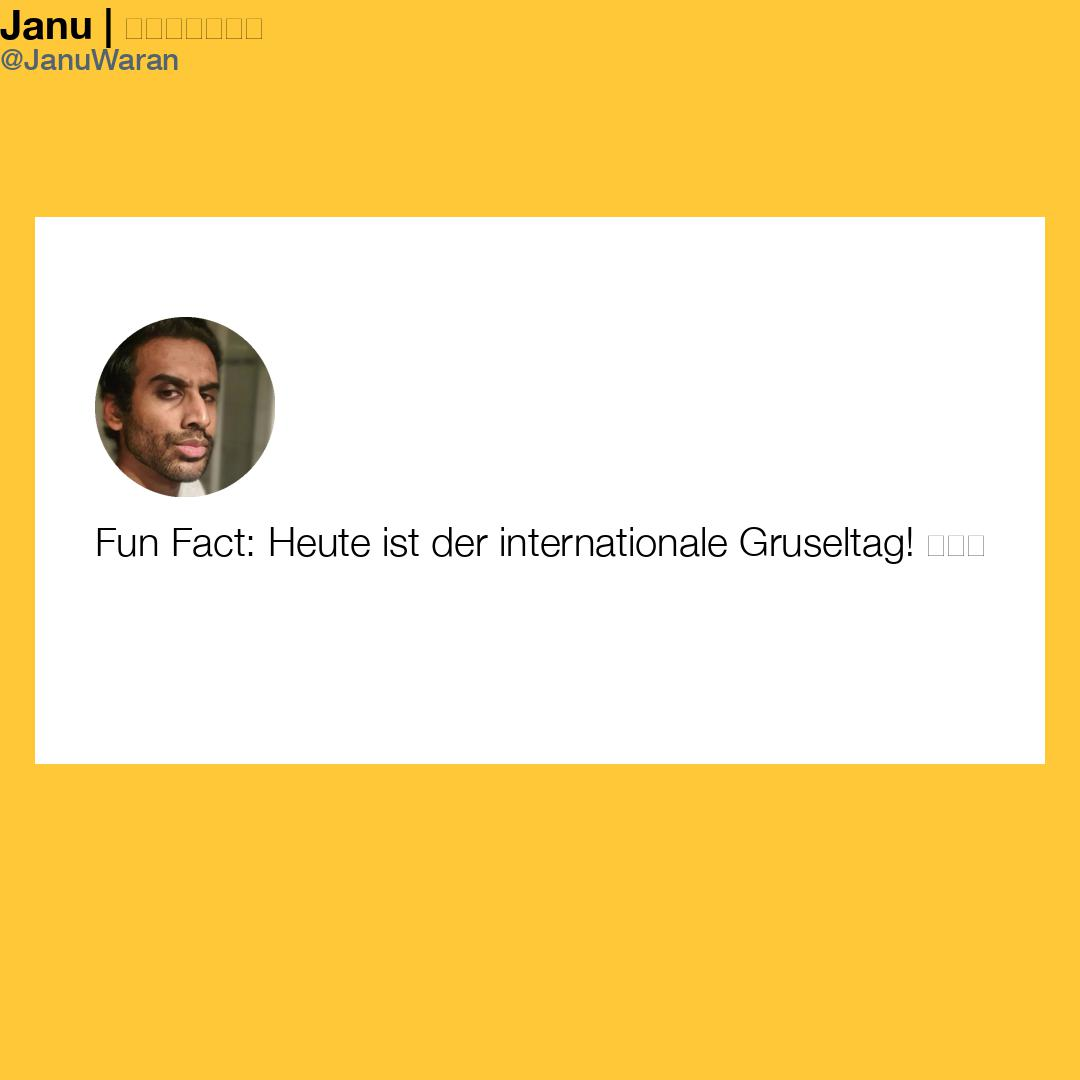
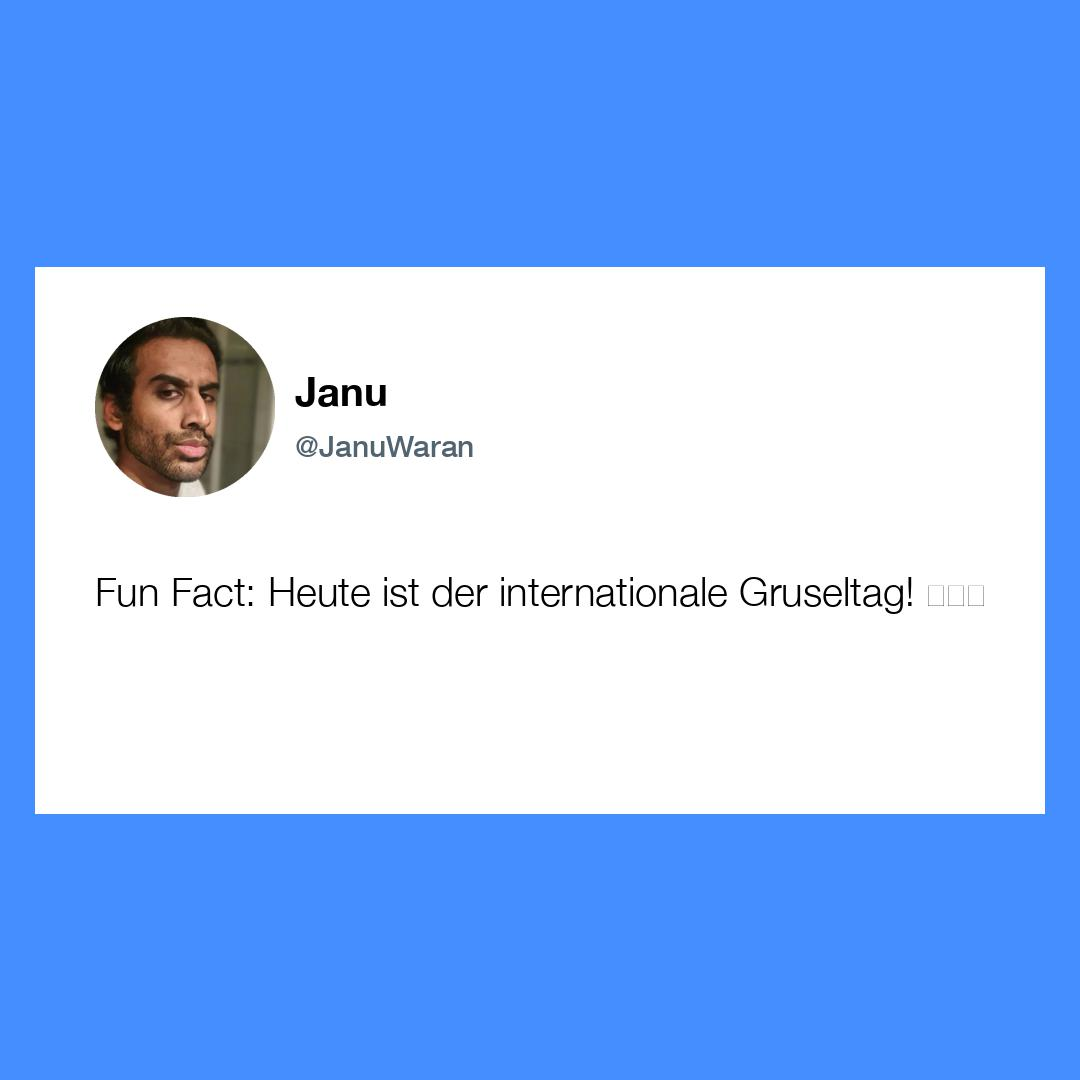
FINISHED (alpha version)

diff --git a/main.py b/main.py
@@ -138,10 +138,13 @@ def export_janus_tweets(x, y):
     return the_counter
 
 
-def tweets_to_images(file, username):
+def tweets_to_images(file, handle, name): 
+    # let name empty for original name
     tweets = pd.read_csv(file)
-    profile_image = get_profile_image(username)
-    name = get_name(username)
+    profile_image = get_profile_image(handle)
+    if name == "":
+        name = get_name(handle)
+    color2 = color_codes[random.randint(0, len(color_codes) - 1)]
     for ind in tweets.index:
         tweet = tweets['tweet'][ind]
         favs = tweets['favs'][ind]
@@ -149,7 +152,10 @@ def tweets_to_images(file, username):
         # tweet_timestamp = tweets['date'][ind]
         tweet_id = tweets['id'][ind]
         color = color_codes[random.randint(0, len(color_codes) - 1)]
-        tweet_to_image(name, username, tweet, favs, retweets, profile_image, tweet_id, color[0], color[1], color[2])
+        while color2 == color:
+          color = color_codes[random.randint(0, len(color_codes) - 1)]
+        color2 = color
+        tweet_to_image(name, handle, tweet, favs, retweets, profile_image, tweet_id, color[0], color[1], color[2])
 
 
 def tweet_to_image(name, username, tweet, favs, retweets, profile_image, tweet_id, r, g, b):
@@ -169,19 +175,47 @@ def tweet_to_image(name, username, tweet, favs, retweets, profile_image, tweet_i
     username_font = ImageFont.truetype("fonts/HelveticaNeueMedium.ttf", 30)
     tweet_size = get_text_dimensions(tweet, tw_font)
     print(tweet_size)
-    tweet_w = (width-tweet_size[0]) // 2
-    tweet_h = (height-tweet_size[1]) // 2
+    tweet_w = (width-900) // 2
+    tweet_h = (height-tweet_size[1]) // 2 + 50
     if tweet_size[0] <= 900:
-      draw.rectangle(((tweet_w-60, tweet_h-300),(tweet_w+tweet_size[0]+60, tweet_h+tweet_size[1]+200)), fill="white")
+      tweet_w = (width-tweet_size[0]) // 2
+      tweet_h = (height-tweet_size[1]) // 2 + 50
+      if tweet_size[0] <= 700:
+        tweet_w = (width-700) // 2
+        tweet_h = (height-tweet_size[1]) // 2 + 50
+        draw.rectangle(((tweet_w-60, tweet_h-300),(tweet_w+700+60, tweet_h+tweet_size[1]+200)), fill="white")
+      else:
+        draw.rectangle(((tweet_w-60, tweet_h-300),(tweet_w+tweet_size[0]+60, tweet_h+tweet_size[1]+200)), fill="white")
       draw.text((tweet_w, tweet_h),tweet,(0,0,0), font=tw_font)
-    img.paste(profile_image, (tweet_w, tweet_h-200), profile_image)
-    # draw.rectangle(((0, 00), (100, 100)))
-    draw.text((0, 0),name,(0,0,0), font=name_font)
-    draw.text((0, 40),"@"+username,(83,100,113),font=username_font)
-
+    else:
+      tweet_words = tweet.split(" ")
+      current_line = ""
+      tweet_lines = []
+      for word in tweet_words:
+        if current_line != "":
+          filler = " "
+        else: 
+          filler = ""
+        if get_text_dimensions(current_line+filler+word, tw_font)[0] > 900:
+          tweet_lines.append(current_line)
+          current_line = word
+        else:
+          current_line += filler + word
+      if (len(current_line) > 0):
+        tweet_lines.append(current_line)
+      tweet_w = (width-900) // 2
+      tweet_h = (height-(tweet_size[1]+15)*len(tweet_lines)) // 2 + 50
+      draw.rectangle(((tweet_w-60, tweet_h-300),(tweet_w+900+60, tweet_h+(tweet_size[1]+15)*len(tweet_lines)+200)), fill="white")
+      line_no = 0
+      for tweet_line in tweet_lines:
+        draw.text((tweet_w, tweet_h+(tweet_size[1]+15)*line_no),tweet_line,(0,0,0), font=tw_font)
+        line_no += 1
+    img.paste(profile_image, (tweet_w, tweet_h-250), profile_image)
+    draw.text((tweet_w + 200, tweet_h-200),name,(0,0,0), font=name_font)
+    draw.text((tweet_w + 200, tweet_h-140),"@"+username,(83,100,113),font=username_font)
     img.save("images/" + str(tweet_id) + ".jpg")
 
 
 # counter = export_janus_tweets(6701, 30)
 # tweets_to_images("tweet_lists/tweets"+counter+".csv", "JanuWaran")
-tweets_to_images("tweet_lists/tweets2.csv", "JanuWaran")
+tweets_to_images("tweet_lists/tweets2.csv", "JanuWaran", "Janu")
